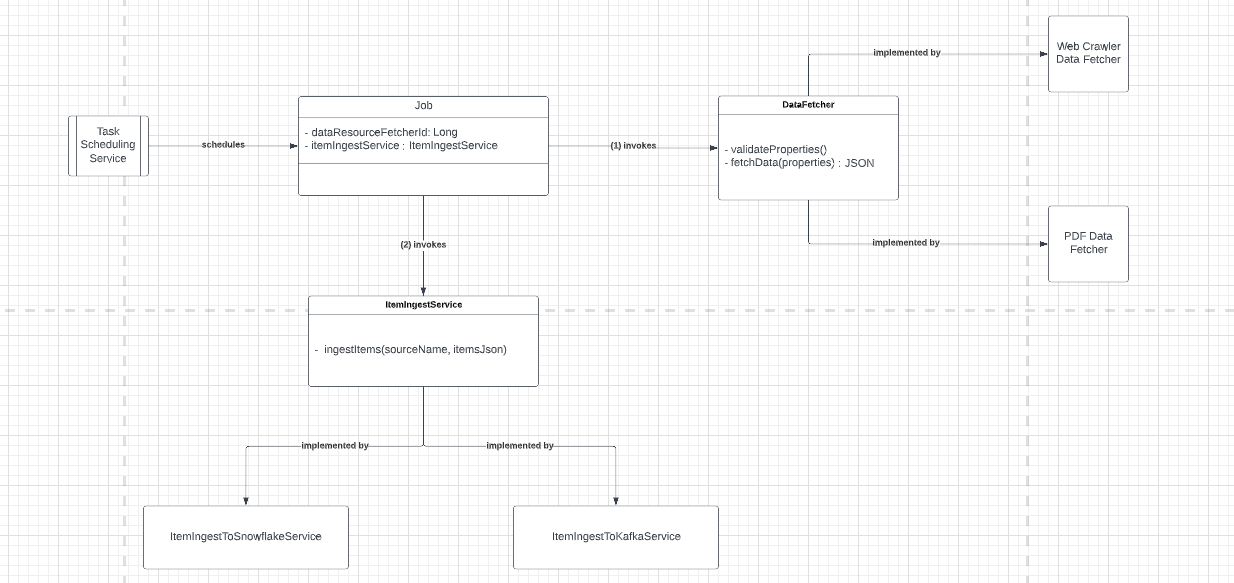
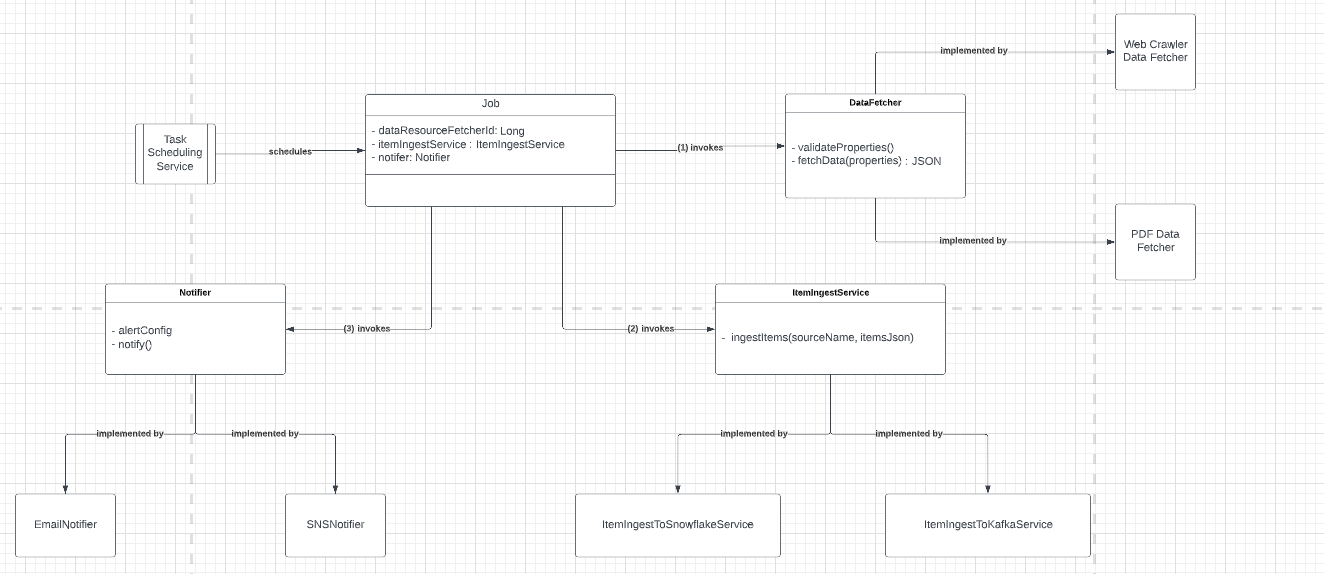
more corrections & open points

diff --git a/src/main/java/com/assignment/cq/Main.java b/src/main/java/com/assignment/cq/Main.java
@@ -56,7 +56,6 @@ public class Main implements CommandLineRunner {
 
         Map<String, String> properties = new HashMap<>();
         String resource = "https://www.screwfix.com/c/heating-plumbing/pipe/cat831500";
-        // properties.put(SimpleXPathBasedWebCrawler.WEB_PAGE_URL_KEY, "https://www.screwfix.com/c/heating-plumbing/pipe/cat831500");
         properties.put(SimpleXPathBasedWebCrawler.LIST_XPATH_KEY, "(//div[@class='row flex-container']/div[contains(@id, 'product_box')])");
         Map<String, String> featureXPathStore = new HashMap<>();
         featureXPathStore.put("name", ".//a[contains(@id, 'product_description')]");
@@ -68,7 +67,7 @@ public class Main implements CommandLineRunner {
         try {
             JsonArray result = crawler.fetchData(resource, properties);
             logger.info(result);
-            itemsIngestService.updateOrInsertItems(dataSource.getName(), result);
+            itemsIngestService.ingestItems(dataSource.getName(), result);
         } catch (Exception e) {
             logger.error("Exception !!", e);
         }

diff --git a/src/main/java/com/assignment/cq/scheduling/TaskSchedulingService.java b/src/main/java/com/assignment/cq/scheduling/TaskSchedulingService.java
@@ -69,12 +69,13 @@ public class TaskSchedulingService {
                         JsonArray result = invokeSpringBeanDataFetcher(resource,
                                 dataFetcher.getDataFetcherPath(), suppliedProperties);
                         // TODO: if chunk size is large, split into multiple transactions
-                        itemsIngestService.updateOrInsertItems(source.getName(), result);
+                        itemsIngestService.ingestItems(source.getName(), result);
                     }
                     // TODO : handle other fetcher types
                 } catch (Exception e) {
                     String errMsg = String.format("Job %s has failed", dataResourceFetcher.getId());
                     logger.error(errMsg, e);
+                    // TODO : notify
                 }
             }
         };

diff --git a/src/main/java/com/assignment/cq/services/ItemsIngestServiceImpl.java b/src/main/java/com/assignment/cq/services/ItemsIngestServiceImpl.java
@@ -66,7 +66,7 @@ public class ItemsIngestServiceImpl implements ItemsIngestService {
      */
     @Override
     @Transactional
-    public void updateOrInsertItems(String sourceName, JsonArray items) {
+    public void ingestItems(String sourceName, JsonArray items) {
 
         List<DataSource> sourceList = dataSourceRepository.findByName(sourceName);
         DataSource source = null;

diff --git a/src/main/java/com/assignment/cq/services/ItemsIngestService.java b/src/main/java/com/assignment/cq/services/ItemsIngestService.java
@@ -4,5 +4,5 @@ import com.assignment.cq.model.sourceparsing.DataSource;
 import com.google.gson.JsonArray;
 
 public interface ItemsIngestService {
-    void updateOrInsertItems(String sourceName, JsonArray items);
+    void ingestItems(String sourceName, JsonArray items);
 }

diff --git a/readme.md b/readme.md
@@ -9,3 +9,9 @@ java -jar target/cq-1.0.0.jar <br/>
 
 Output should be seen in tables ciq.dt_item & ciq.dt_item_property. <br/>
 Tested on Ubuntu 20.04.1.
+
+Few of the major missing items - <br/>
+1. No service layer to massage results of repository layer
+2. Error handling & notification
+3. Controller layer & proper DTO objects
+4. Object Composition might be a better a approach for creating appropriate Data Fetcher object
